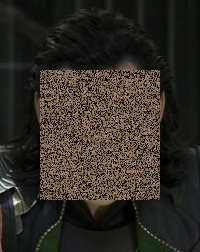
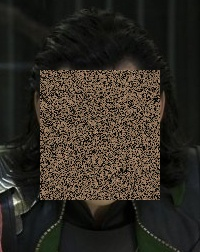
add 4d hyper attractor: HyperLu modify the key structure

Changed region(s): [[0.18, 0.2778, 0.81, 0.8056]]

diff --git a/attractor.py b/attractor.py
@@ -1,6 +1,7 @@
 from abc import ABCMeta
 from abc import abstractmethod
 from key import Key3D
+from key import Key4D
 from random import randint
 from time import time
 import cv2
@@ -16,30 +17,22 @@ class Attractor:
     def __init__(self, xyz: list):
         self.xyz = xyz
 
+    @classmethod
+    @abstractmethod
+    def from_list(cls, l: list): pass
+
+    @classmethod
+    @abstractmethod
+    def from_key(cls, key: Key3D): pass
+
     @abstractmethod
     def __str__(self): pass
-    # return "%s %s %s" % (self.x_0, self.y_0, self.z_0)
-
-    @abstractmethod
-    def get_x(self, x, y, z, t): pass
-
-    @abstractmethod
-    def get_y(self, x, y, z, t): pass
-
-    @abstractmethod
-    def get_z(self, x, y, z, t): pass
-
-    @abstractmethod
-    def get_random_x(self): pass
-
-    @abstractmethod
-    def get_random_y(self): pass
-
-    @abstractmethod
-    def get_random_z(self): pass
 
     @abstractmethod
     def get_vec(self, vec, t) -> np.ndarray: pass
+
+    @abstractmethod
+    def check_valid(self) -> bool: pass
 
 
 class Lorenz(Attractor):
@@ -49,8 +42,9 @@ class Lorenz(Attractor):
     y domain: -15, 15
     z domain:   0, 40
     """
-    def __init__(self, x_0=None, y_0=None, z_0=None):
-        Attractor.__init__(self, x_0, y_0, z_0)
+
+    def __init__(self, xyz):
+        Attractor.__init__(self, xyz)
         self.a = 10
         self.b = 28
         self.c = 8 / 3
@@ -58,45 +52,19 @@ class Lorenz(Attractor):
     @classmethod
     def from_list(cls, l: list):
         if len(l) != 3:
-            print("Warning: invalid input!, initialize randomly")
-            return cls()
-        return cls(l[0], l[1], l[2])
+            print("Warning: invalid input!, initialize to zero")
+            return cls([0, 0, 0])
+        return cls(l)
 
     @classmethod
     def from_key(cls, key: Key3D):
         return cls.from_list(key.xyz)
 
-    def get_x(self, x, y, z, t):
-        """
-        get dx/dt
-        :return: dx/dt
-        """
-        return self.a * (y - x)
-
-    def get_y(self, x, y, z, t):
-        """
-        get dy/dt
-        :return: dy/dt
-        """
-        return x * (self.b - z) - y
-
-    def get_z(self, x, y, z, t):
-        """
-        get dz/dt
-        :return: dz/dt
-        """
-        return x * y - self.c * z
-
-    def get_random_x(self):
-        return np.random.uniform(-10, 10)
-
-    def get_random_y(self):
-        return np.random.uniform(-15, 15)
-
-    def get_random_z(self):
-        return np.random.uniform(0, 40)
-
     def get_vec(self, vec: np.ndarray, t) -> np.ndarray:
+        """
+        get dx/dt, dy/dt, dz/dt
+        :return: np.array(dx/dt, dy/dt, dz/dt)
+        """
         x = vec[0]
         y = vec[1]
         z = vec[2]
@@ -104,6 +72,58 @@ class Lorenz(Attractor):
         yr = x * (self.b - z) - y
         zr = x * y - self.c * z
         return np.array([xr, yr, zr])
+
+    def __str__(self):
+        return "%s %s %s" % (self.xyz[0], self.xyz[1], self.xyz[2])
+
+    def check_valid(self) -> bool:
+        return self.xyz and len(self.xyz) == 3
+
+
+class HyperLu(Attractor):
+    """
+    Lorenz attractor, the differential equation does not change according to t
+    x domain: -20, 20
+    y domain: -20, 20
+    z domain:   0, 40
+    u domain:-100, 100
+    the step size used in Hyper Lu attractor should  <= 0.02
+    """
+
+    def __init__(self, xyz):
+        Attractor.__init__(self, xyz)
+        self.a = 36.0
+        self.b = 3.0
+        self.c = 20.0
+        self.d = 0.5
+
+    @classmethod
+    def from_list(cls, l: list):
+        if len(l) != 4:
+            print("Warning: invalid input!, initialize to zero")
+            return cls([0, 0, 0, 0])
+        return cls(l)
+
+    @classmethod
+    def from_key(cls, key: Key4D):
+        return cls.from_list(key.xyz)
+
+    def get_vec(self, vec: np.ndarray, t) -> np.ndarray:
+        x = vec[0]
+        y = vec[1]
+        z = vec[2]
+        u = vec[3]
+        xr = self.a * (y - x) + u
+        yr = - x * z + self.c * y
+        zr = x * y - self.b * z
+        ur = x * z + self.d * u
+        return np.array([xr, yr, zr, ur])
+
+    def __str__(self):
+        return "%s %s %s %s" % (self.xyz[0], self.xyz[1], self.xyz[2], self.xyz[3])
+
+    def check_valid(self) -> bool:
+        return self.xyz and len(self.xyz) == 4
 
 
 class RungeKutta4:
@@ -163,37 +183,31 @@ class RungeKutta4:
 
 class Protocol:
 
-    def __init__(self, attractor):
+    def __init__(self, attractor: Attractor):
         self.attractor = attractor
         self.rk4 = RungeKutta4(attractor)
 
-    def skip_first_n(self, n: int, h=0.1) -> None:
+    def skip_first_n(self, n: int, h=0.01) -> None:
         """
         skip first n iteration to obtain a chaos orbit
         :param n: number of the iteration to skip
         :param h: step height
         :return: None
         """
-        # start_time = time()
-        if self.attractor.x_0 and self.attractor.y_0 and self.attractor.z_0:
-            x = self.attractor.x_0
-            y = self.attractor.y_0
-            z = self.attractor.z_0
+        start_time = time()
+        if self.attractor.check_valid():
+            xyz = self.attractor.xyz
         else:
             raise ValueError
-        sequence_i = np.array([x, y, z])
+        sequence_i = np.array(xyz)
         i = 0
         t = 0.0
         while i < n:
-            # x, y, z = sequence_i
-            # sequence_i = sequence_i + self.rk4.solve(x, y, z, t, h)
             sequence_i = sequence_i + self.rk4.solve_vector(sequence_i, t, h)
             t += h
             i += 1
-        self.attractor.x_0 = sequence_i[0]
-        self.attractor.y_0 = sequence_i[1]
-        self.attractor.z_0 = sequence_i[2]
-        # print("--- skip first n in %s seconds ---" % (time() - start_time))
+        self.attractor.xyz = sequence_i.tolist()
+        print("--- skip first n in %s seconds ---" % (time() - start_time))
         return None
 
     def get_sequence(self, n: int, h=0.01) -> np.ndarray:
@@ -205,13 +219,11 @@ class Protocol:
         """
         # start_time = time()
         sequence = []
-        if self.attractor.x_0 and self.attractor.y_0 and self.attractor.z_0:
-            x = self.attractor.x_0
-            y = self.attractor.y_0
-            z = self.attractor.z_0
+        if self.attractor.check_valid():
+            xyz = self.attractor.xyz
         else:
             raise ValueError
-        sequence_i = np.array([x, y, z])
+        sequence_i = np.array(xyz)
         i = 0
         t = 0.0
         while i < n:
@@ -221,9 +233,7 @@ class Protocol:
             sequence.append(sequence_i)
             t += h
             i += 1
-        self.attractor.x_0 = sequence_i[0]
-        self.attractor.y_0 = sequence_i[1]
-        self.attractor.z_0 = sequence_i[2]
+        self.attractor.xyz = sequence_i.tolist()
         # print("--- get sequence in %s seconds ---" % (time() - start_time))
         return np.array(sequence)
 
@@ -291,7 +301,7 @@ class Protocol:
         img_block = self.permute(img_block, sequence_h, sequence_w, code)
         return img_block
 
-    def encrypt(self, img, h=0.1):
+    def encrypt(self, img, h=0.01):
         height = len(img)
         width = len(img[0])
         sequence_h = np.rint(self.get_sequence(height, h) * 10000) % height
@@ -299,7 +309,7 @@ class Protocol:
         img = self.permute_twice(img, sequence_h, sequence_w, ENCRYPT)
         return img
 
-    def decrypt(self, img, h=0.1):
+    def decrypt(self, img, h=0.01):
         height = len(img)
         width = len(img[0])
         sequence_h = np.rint(self.get_sequence(height, h) * 10000) % height
@@ -307,6 +317,7 @@ class Protocol:
         img = self.permute_twice(img, sequence_h, sequence_w, DECRYPT)
         return img
 
+    """
     def encrypt_block(self, img, block_size=32):
         height = len(img)
         width = len(img[0])
@@ -336,8 +347,9 @@ class Protocol:
                 img[y1:y2, x1:x2] = self.block_operation(img[y1:y2, x1:x2], y2 - y1, x2 - x1, DECRYPT)
         # img = self.block_operation(img, height, width, ENCRYPT)
         return img
+    """
 
-    def rand_perm_map(self, length, h=0.1) -> np.ndarray:
+    def rand_perm_map(self, length, h=0.01) -> np.ndarray:
         # start_time = time()
         idx_mat = np.arange(length)
         sequence = np.rint(self.get_sequence(length, h) * 100000)
@@ -366,55 +378,3 @@ class Protocol:
             raise AttributeError
         # print("--- reorder in %s seconds ---" % (time() - start_time))
         return res
-
-
-class HyperLu(Attractor):
-    """
-    Lorenz attractor, the differential equation does not change according to t
-    x domain: -10, 10
-    y domain: -15, 15
-    z domain:   0, 40
-    """
-
-    def get_x(self, x, y, z, t):
-        pass
-
-    def get_y(self, x, y, z, t):
-        pass
-
-    def get_z(self, x, y, z, t):
-        pass
-
-    def get_random_x(self):
-        pass
-
-    def get_random_y(self):
-        pass
-
-    def get_random_z(self):
-        pass
-
-    def __init__(self, x_0=None, y_0=None, z_0=None, u_0=None):
-        Attractor.__init__(self, x_0, y_0, z_0, u_0)
-        self.a = 36.0
-        self.b = 3.0
-        self.c = 20.0
-        self.d = 0.5
-
-    @classmethod
-    def from_list(cls, l: list):
-        if len(l) < 4:
-            print("Warning: invalid input!, initialize randomly")
-            return cls()
-        return cls(l[0], l[1], l[2], l[3])
-
-    def get_vec(self, vec: np.ndarray, t) -> np.ndarray:
-        x = vec[0]
-        y = vec[1]
-        z = vec[2]
-        u = vec[3]
-        xr = self.a * (y - x) + u
-        yr = - x * z + self.c * y
-        zr = x * y - self.b * z
-        ur = x * z + self.d * u
-        return np.array([xr, yr, zr, ur])

diff --git a/attractor_test.py b/attractor_test.py
@@ -1,5 +1,6 @@
 from attractor import Lorenz
-from key import Key3D as Key
+from attractor import HyperLu
+from key import Key4D as Key
 from attractor import Protocol
 from attractor import ENCRYPT, DECRYPT
 import numpy as np
@@ -11,11 +12,12 @@ image_folder = "./images/"
 filename = "loki.jpg"
 
 # key = np.random.uniform(-10, 10), np.random.uniform(-15, 15), np.random.uniform(0, 40)
-key_l = [11.381133082873731, 12.990637231862848, 8.822348261655519, 1000]
+key_l = [11.381133082873731, 12.990637231862848, 8.822348261655519, 12.990637231862848, 1000]
 
 # init encoder
 key_m = Key.from_list(key_l)
-master = Lorenz.from_key(key_m)
+# master = Lorenz.from_key(key_m)
+master = HyperLu.from_key(key_m)
 sender = Protocol(master)
 sender.skip_first_n(key_m.n)
 
@@ -25,11 +27,12 @@ key_str = str(key_m)
 
 # init decoder
 key_s = Key.from_str(key_str)
-slave = Lorenz.from_key(key_s)
+# slave = Lorenz.from_key(key_s)
+slave = HyperLu.from_key(key_s)
 receiver = Protocol(slave)
 receiver.skip_first_n(key_s.n)
-# print(master)
-# print(slave)
+print(master)
+print(slave)
 print(' ')
 # print(key_l[0])
 # print(key_l[0] * 10000)

diff --git a/lorenz.py b/lorenz.py
@@ -111,7 +111,8 @@ class HyperLorenz(Attractor):
         return np.array([xr, yr, zr, ur])
 
 
-attractor = HyperLu.from_list([8.0, 4.00000, 4.0, 3.0])
+# attractor = HyperLu.from_list([8.0, 4.00000, 4.0, 3.0])
+attractor = HyperLu.from_list([1.1381133082873731, 1.2990637231862848, 8.822348261655519, 1.2990637231862848])
 rk4 = RungeKutta4(attractor)
 start = time()
 t = np.arange(0, 50.0, 0.01)
@@ -124,7 +125,7 @@ u = attractor.u_0
 
 sequence_i = np.array([x, y, z, u])
 for ti in t:
-    sequence_i = sequence_i + rk4.solve(sequence_i, t, 0.01)
+    sequence_i = sequence_i + rk4.solve(sequence_i, t, 0.001)
     sequence.append(sequence_i)
 print("--- generate %s seconds ---" % (time() - start))
 
